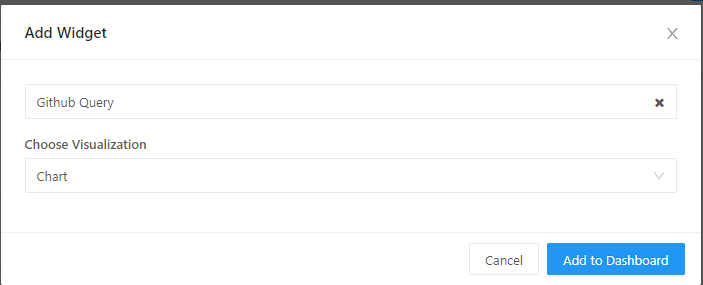
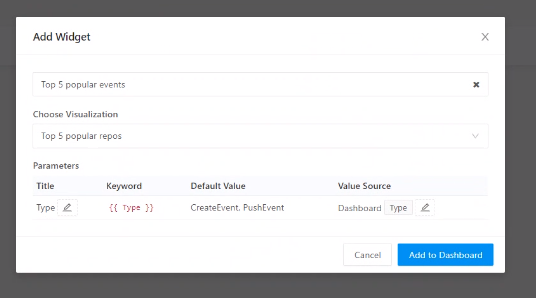
updates in img files and md text

diff --git a/data-explorer/redash.md b/data-explorer/redash.md
@@ -11,63 +11,43 @@ ms.date: 11/03/2019
 
 # Visualize data from Azure Data Explorer in Redash
 
- [Redash](https://www.redash.io/) connects and queries your data sources, builds dashboards to visualize data and share them with peers. 
+[Redash](https://www.redash.io/) connects and queries your data sources, builds dashboards to visualize data and share them with peers. In this article, you learn how to set up Azure Data Explorer as a data source for Redash, and then visualize data.
 
 ## Prerequisites
 
-You need the following to complete this article:
-
-\\1. Sign in to Redash service
-1. Create a new query
-1. Create a new data source - select Azure Data Explorer (Kusto) connector. 
-    You need to introduce the following properties:
-    * Data source name
-    * Cluster
-    * Azure AD app client id
-    * Azure AD client secret
-    * Azure AD tenant id
-    * Database
-
-    [!INCLUDE [data-explorer-storm-events](../../includes/data-explorer-storm-events.md)]
+1. [Create cluster and database](create-cluster-database-portal.md).
+1. Create a new data source as explained in [ingest sample data into Azure Data Explorer](ingest-sample-data.md). For more ingestion options see [ingestion overview)](ingest-data-overview.md).
+1. Create a new query using [Web UI](web-query-data.md). 
 
     [!INCLUDE [data-explorer-configure-data-source](../../includes/data-explorer-configure-data-source.md)]
 
-## Create queries in Redash 
+## Create Azure Data Explorer Connector in Redash 
 
 1. Sign in to [Redash](https://www.redash.io/). Select **Get Started** to create an account.
 1. Under **Let's get started**, Select **Connect a Data Source**.
 
-    ![connect a data source](media/redash/step1.png)
+    ![Connect a data source](media/redash/connect-data-source.png)
 
 1. In **Create a New Data Source** window, select **Azure Data Explorer (Kusto)** 
 
-    ![Azure Data Explorer data source](media/redash/step2.png)
+    ![Select Azure Data Explorer data source](media/redash/select-adx-data-source.png)
 
 1. In **Azure Data Explorer (Kusto)** window, complete the following form and select **Create**:
 
-    ![Azure Data Explorer (Kusto) settings window](media/redash/step3.png)
-
-    | Setting |Description  |
-    |---------|---------|
-    |Name    |         |
-    |Cluster    |         |
-    |Azure AD Client ID    |         |
-    |Row3     |         |
-    |Row3     |         |
-    |Row3     |         |
+    ![Azure Data Explorer (Kusto) settings window](media/redash/adx-settings-window.png)
 
 1. In **Settings** window, select **Save** and **Test Connection** to test your **Azure Data Explorer (Kusto)** data source connection.
 
-    ![Test Azure Data Explorer connection](media/redash/step3.5.png)
+## Create queries in Redash
 
 1. In Redash, on top left select **Create** > **Query**. Click on **New Query** and rename the query.
 
-    ![Create query](media/redash/step4.png)
+    ![Create query](media/redash/create-query.png)
 
-1. The data source connection **Github connector** is seen in drop-down. In the left pane, view the tables in the selected database.
+1. In the left pane, you can see the data source connection name (**Github connector** in our flow) in the drop-down menu, and the tables in the selected database.
 1. Type your query in the top editing pane and select **Save** and **Execute**. Select **Publish** to publish query for future use.
 
-    ![Publish query](media/redash/step5.png)
+    ![Save and execute query](media/redash/save-and-execute-query.png)
 
 1. View the query results in the bottom central pane. Create a visualization to go with the query by selecting the **New Visualization** button.
 
@@ -77,55 +57,44 @@ You need the following to complete this article:
 
     ![Configure and save visualization](media/redash/step7.png)
 
+### Create a query using a parameter
+
 1. **Create** > **Query** to create a new query. Add a parameter to it using {{}} curly brackets.
 
-\\need image
+    ![insert parameter](media/redash/insert-parameter.png)
 
-1. Select (wheel icon pic) to define the parameter attributes and open parameter name (**Type**) window. For **Type** select **Query Based Dropdown List** and for **Query** select another query (without parameter) that returns a list of values.
+1. In the **Add Parameter** window, name your parameter using **Keyword**. Select **Type**: **Query Based Dropdown List**  from dropdown menu
+
+    ![query based dropdown list](media/redash/query-based-dropdown-list.png)
+
+    > [!NOTE]
+    > The query uses multiple values, therefore you must include the following syntax `| where Type in ((split('{{Type}}', ',')))`. See [in operator](https://docs.microsoft.com/en-us/azure/kusto/query/inoperator) for more details. This results in [multiple query parameter options in redash app](https://redash.io/help/user-guide/querying/query-parameters#Serialized-Multi-Select Query Parametersredash.io)
+
+    ![multi parameters query](media/redash/multi-parameters-query.png)    
+
+1. Select *settings icon* to modify the parameter attributes and open <parameter name> window. Select **Save**
 
     ![Add parameter type](media/redash/add-parameter-type.png)
 
-1. To create your dashboard, **Create** > **Dashboard**. Alternatively, select existing dashboard, **Dashboards** >  \\selection
+## Create a dashboard in Redash
+
+1. To create your dashboard, **Create** > **Dashboard**. Alternatively, select existing dashboard, **Dashboards** > select a dashboard from the list.
 
     ![Create dashboard](media/redash/step8.png)
 
 1. In **New Dashboard** window, name your dashboard and select **Save**.
 1. In **<Dashboard name>** window, select **Add Widget** to create a new widget. In **Add widget** window, select query name and **Choose Visualization**. Select **Add to Dashboard**
 
-    ![Choose visualizations and add to dashboard](media/redash/step9.png)
+   ![Choose visualizations and add to dashboard](media/redash/step9.png)
 
 1. Select **Done Editing** to complete dashboard creation.
 
+1.  In the dashboard edit mode, select **Use Dashboard Level Filters** to use the **Type** parameter previously defined.
+
     ![Complete dashboard creation](media/redash/step10.png)
-
-1. In the dashboard edit mode, select **Use Dashboard Level Filters** to use the **Type** parameter previously defined.
-1. 
-1. Once you get the query right you can add a parameter to it using {{}} curly brackets like in the example below.
-1. Define the parameter attributes. In this case The parameter "Type" is "Query based dropdownlist" and the parameter "Query" is one of the other queries that returns a list of values.
-
-
-1. For **DSN**, select the data source you created for ODBC, then select **Sign In**.
-
-    ![ODBC sign-in](media/tableau/odbc-sign-in.png)
-
-1. For **Database**, select the database on your sample cluster, such as *TestDatabase*. For **Schema**, select *dbo*, and for **Table**, select the *StormEvents* sample table.
-
-    ![Select database and table](media/tableau/select-database-table.png)
-
-1. Tableau now shows the schema for the sample data. Select **Update Now** to bring the data into Tableau.
-
-    ![Update data](media/tableau/update-data.png)
-
-    When the data is imported, Tableau shows rows of data similar to the following image.
-
-    ![Result set](media/tableau/result-set.png)
-
-1. Now you can create visualizations in Tableau based on the data you brought in from Azure Data Explorer. For more information, see [Tableau Learning](https://www.tableau.com/learn).
 
 ## Next steps
 
 * [Write queries for Azure Data Explorer](write-queries.md)
 
 
-To add a chart to the dashboard you can either create a new dashboard from the "Create" drop down or open a dashboard from the top left "Dashboards" drop down.
-1. After opening the dashboard go into edit mode and click **Add widget** on the bottom right of the screen. The widget requires selecting a query and visualization to place on the dashboard. Once the widget was added you can move and resize it.
